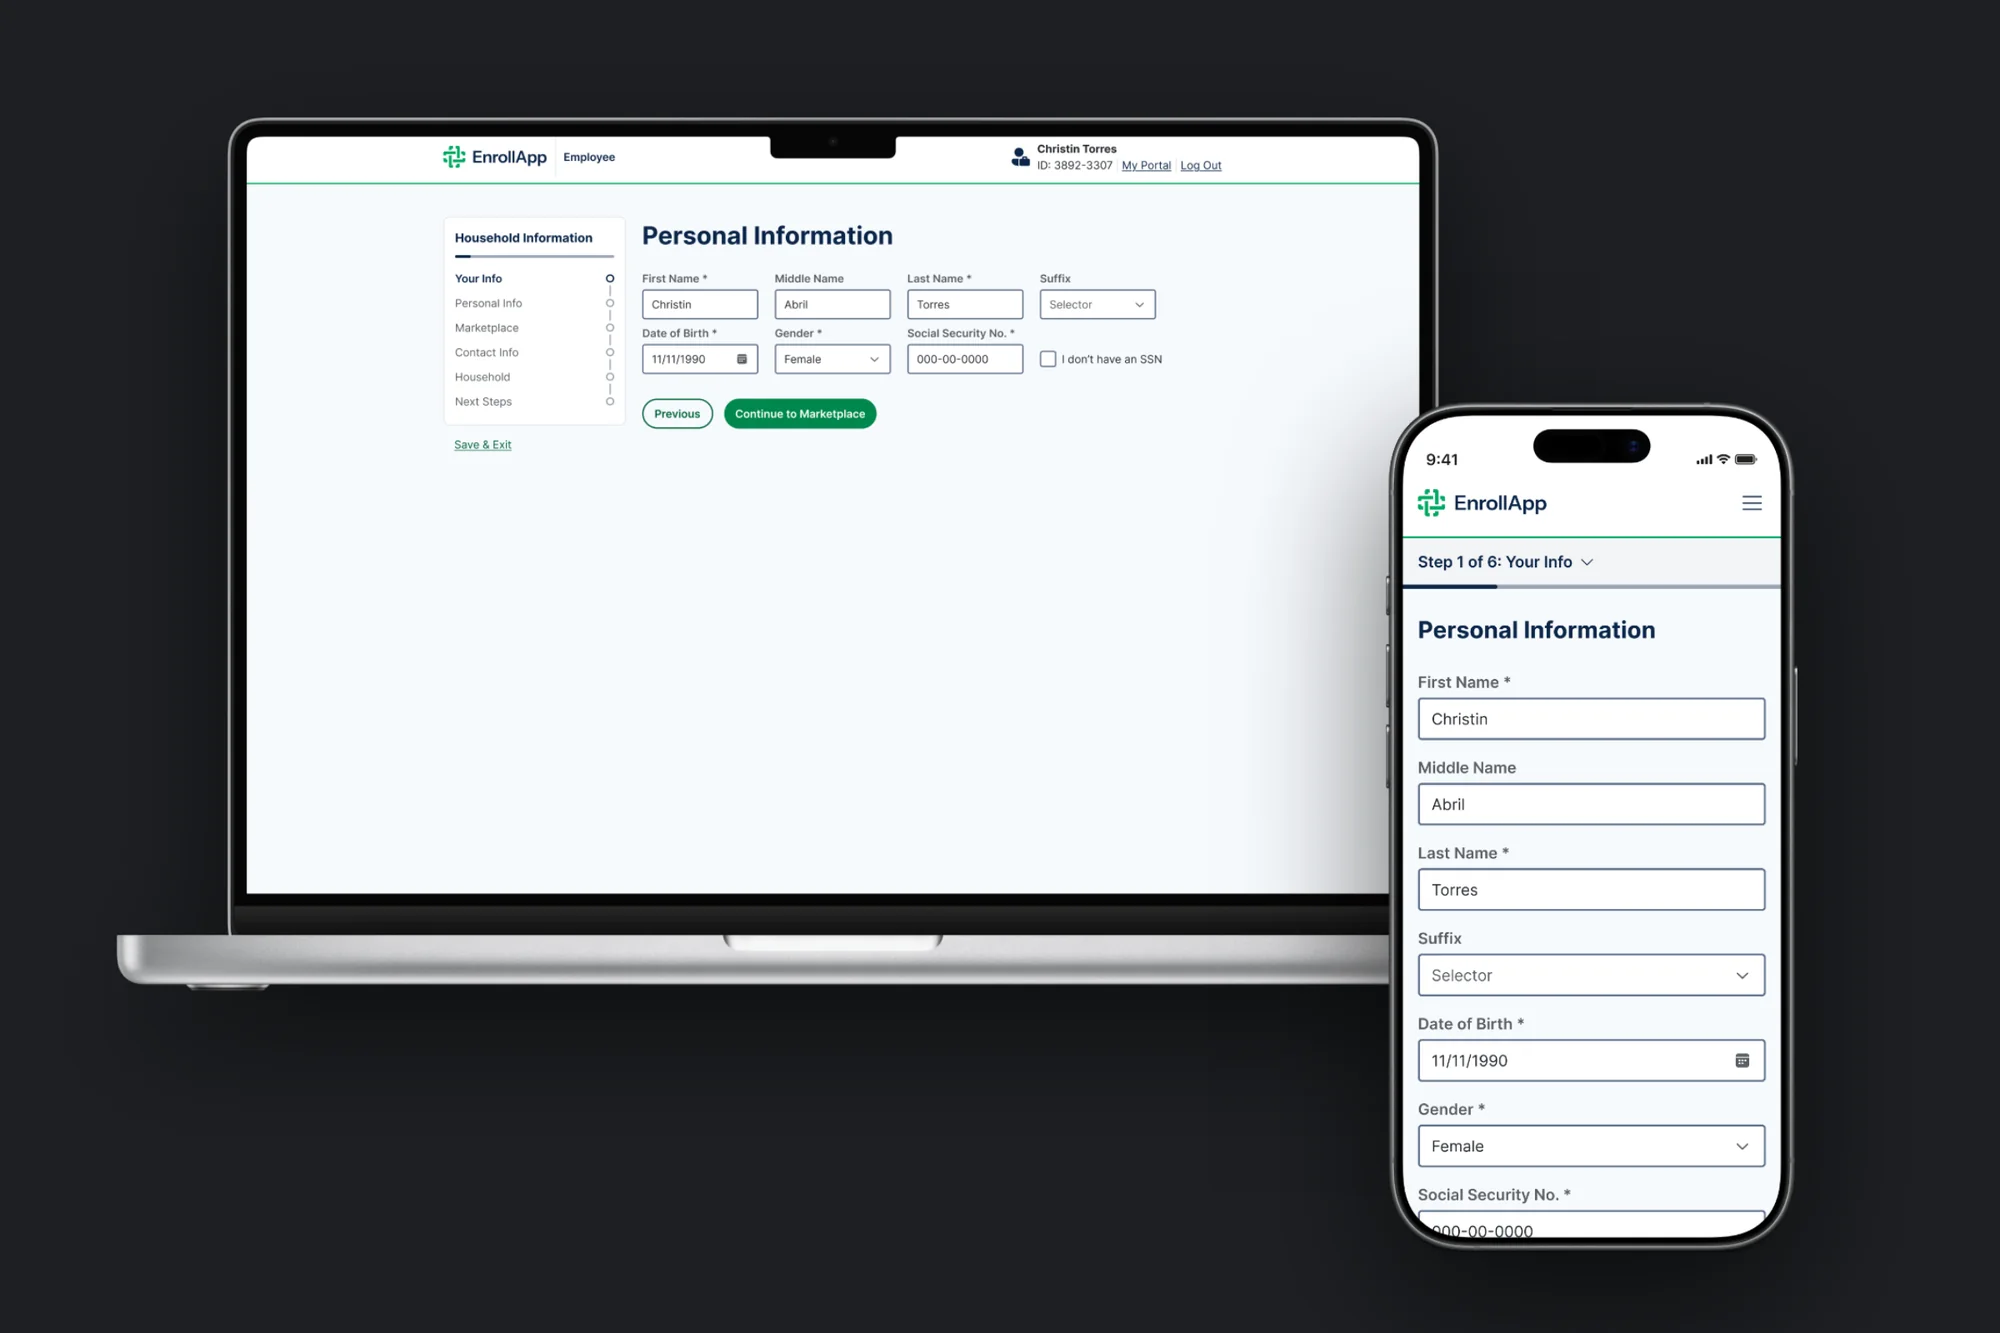
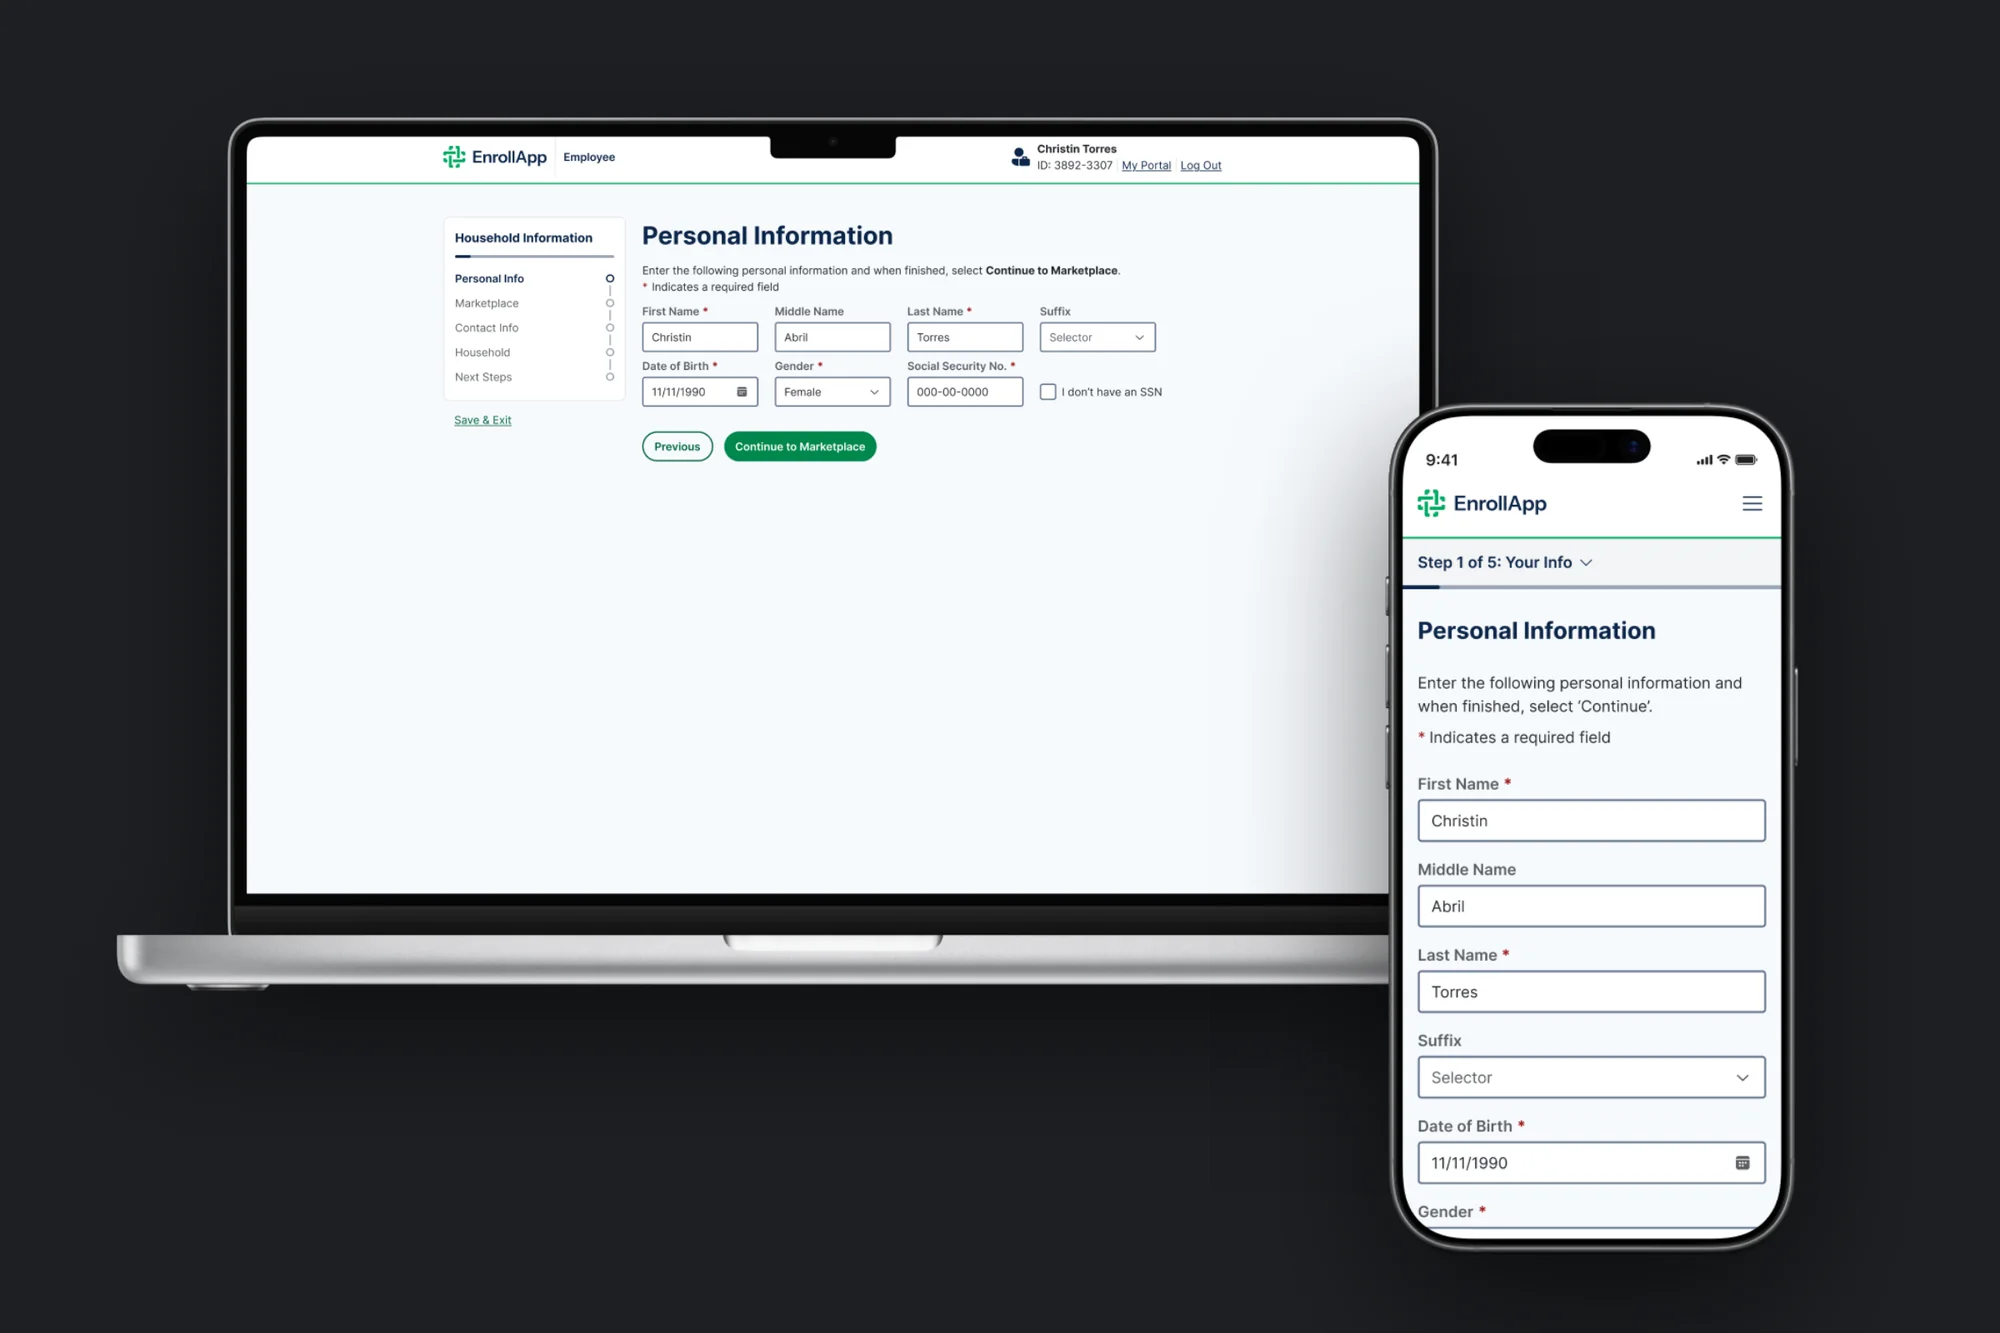
Enroll App mockups: updated MacBook and iPhone renders (five steps, new inputs)
Claude-Session: https://claude.ai/code/session_01QTyHBCCwtrKhoJ4MAgqzUa

diff --git a/docs/portfolio/enroll-app/index.html b/docs/portfolio/enroll-app/index.html
@@ -33,7 +33,7 @@
 <a class="skip-link" href="#main">Skip to content</a>
 <header class="site-header"><div class="wrap"><a class="brand" href="../../"><svg class="brand-mark" viewBox="0 0 165.37 144" aria-hidden="true" focusable="false"><path fill="currentColor" d="M165.37,46.66A46.64,46.64,0,0,0,118.66,0H64L0,144H165.37L140.44,87.93A46.58,46.58,0,0,0,165.37,46.66ZM140.71,128H95.53L82.66,99.05,69.79,128H24.66L74.43,16h44.23A30.65,30.65,0,0,1,133,73.8l-13.23,7,6.08,13.67Z"/></svg><span class="visually-hidden">Alex Rekas, home</span></a><button class="menu-button" type="button" aria-expanded="false" aria-controls="site-nav" hidden><span class="visually-hidden">Menu</span><span class="menu-icon" aria-hidden="true"><i></i><i></i></span></button><nav id="site-nav" aria-label="Main"><ul><li><a href="../../portfolio/" aria-current="true">Work</a></li><li><a href="../../about/">About</a></li><li><a href="../../resume/">Resume</a></li></ul></nav></div></header>
 <main id="main"><div class="wrap">
-<article class="case"><header class="case-intro"><h1>Enroll App</h1><div class="case-head"><p class="lede">Enroll App runs the health insurance marketplaces for Washington, DC, Maine and Massachusetts. It's where people apply for coverage, find out what help they qualify for, and pick a plan, and where small businesses set up coverage for their employees. The app was built on Bootstrap 3 with no real mobile support, and an accessibility audit found problems serious enough to stop some people with disabilities from enrolling at all. I was design lead on a $1M+ modernization that moved the platform to Bootstrap 4 and 5, and I led the redesign of the enrollment experience on top of it: mobile-first, WCAG 2.1 AA and Section 508 compliant, and built on a new Figma design system. The redesign is live in Maine's Individual Market, and DC's migration is planned for 2026–2027.</p><dl class="meta"><div><dt>Role</dt><dd>Design Lead</dd></div><div><dt>Company</dt><dd>IdeaCrew</dd></div><div><dt>Services</dt><dd><ul class="tags"><li>Product design</li><li>Accessibility</li><li>Research</li><li>Design system</li></ul></dd></div><div><dt>Years</dt><dd>2020–present</dd></div></dl></div></header><figure class="hero"><picture><source type="image/webp" srcset="../../assets/img/enroll-hero-mockup-640.webp 640w, ../../assets/img/enroll-hero-mockup-1200.webp 1200w, ../../assets/img/enroll-hero-mockup-1600.webp 1600w, ../../assets/img/enroll-hero-mockup-2000.webp 2000w, ../../assets/img/enroll-hero-mockup-2400.webp 2400w" sizes="(min-width: 1248px) 1200px, calc(100vw - 32px)"><img src="../../assets/img/enroll-hero-mockup-1200.jpg" alt="The redesigned Personal Information step for an employee on a laptop, with a six-step progress rail on the left, and the same step on a phone in front of it." width="2400" height="1350" fetchpriority="high" decoding="async"></picture></figure><section class="section" aria-labelledby="s-employer">
+<article class="case"><header class="case-intro"><h1>Enroll App</h1><div class="case-head"><p class="lede">Enroll App runs the health insurance marketplaces for Washington, DC, Maine and Massachusetts. It's where people apply for coverage, find out what help they qualify for, and pick a plan, and where small businesses set up coverage for their employees. The app was built on Bootstrap 3 with no real mobile support, and an accessibility audit found problems serious enough to stop some people with disabilities from enrolling at all. I was design lead on a $1M+ modernization that moved the platform to Bootstrap 4 and 5, and I led the redesign of the enrollment experience on top of it: mobile-first, WCAG 2.1 AA and Section 508 compliant, and built on a new Figma design system. The redesign is live in Maine's Individual Market, and DC's migration is planned for 2026–2027.</p><dl class="meta"><div><dt>Role</dt><dd>Design Lead</dd></div><div><dt>Company</dt><dd>IdeaCrew</dd></div><div><dt>Services</dt><dd><ul class="tags"><li>Product design</li><li>Accessibility</li><li>Research</li><li>Design system</li></ul></dd></div><div><dt>Years</dt><dd>2020–present</dd></div></dl></div></header><figure class="hero"><picture><source type="image/webp" srcset="../../assets/img/enroll-hero-mockup-640.webp 640w, ../../assets/img/enroll-hero-mockup-1200.webp 1200w, ../../assets/img/enroll-hero-mockup-1600.webp 1600w, ../../assets/img/enroll-hero-mockup-2000.webp 2000w, ../../assets/img/enroll-hero-mockup-2400.webp 2400w" sizes="(min-width: 1248px) 1200px, calc(100vw - 32px)"><img src="../../assets/img/enroll-hero-mockup-1200.jpg" alt="The redesigned Personal Information step for an employee on a laptop, with a five-step progress rail on the left, and the same step on a phone in front of it." width="2400" height="1350" fetchpriority="high" decoding="async"></picture></figure><section class="section" aria-labelledby="s-employer">
 <div class="section-text">
 <h2 id="s-employer">New employer sign-up</h2>
 <p>Small businesses used to set up coverage on one long page: their own details, the company's details, office locations and notice preferences, all ending in a red Confirm button. I split it into three short steps, Personal Information, Business Information and Communication, with a progress rail that always shows where you are and what's left.</p>

diff --git a/docs/portfolio/index.html b/docs/portfolio/index.html
@@ -45,7 +45,7 @@
 </div>
 <p class="visually-hidden" aria-live="polite" id="filter-status"></p>
 <ul class="work-grid">
-<li class="work-tile" data-tags="product"><div class="work-media"><picture><source type="image/webp" srcset="../assets/img/enroll-tile-mockup-640.webp 640w, ../assets/img/enroll-tile-mockup-1200.webp 1200w, ../assets/img/enroll-tile-mockup-1600.webp 1600w" sizes="(min-width: 1248px) 384px, (min-width: 700px) calc(50vw - 40px), calc(100vw - 48px)"><img src="../assets/img/enroll-tile-mockup-1200.jpg" alt="Enroll App&#x27;s Personal Information step in a desktop browser, with the same step on a phone in front of it." width="1600" height="1600" loading="lazy" decoding="async"></picture></div><div class="work-text"><h2><a href="../portfolio/enroll-app/">Enroll App</a></h2><p>Health coverage enrollment, rebuilt mobile-first</p></div></li>
+<li class="work-tile" data-tags="product"><div class="work-media"><picture><source type="image/webp" srcset="../assets/img/enroll-tile-mockup-640.webp 640w, ../assets/img/enroll-tile-mockup-1200.webp 1200w, ../assets/img/enroll-tile-mockup-1600.webp 1600w" sizes="(min-width: 1248px) 384px, (min-width: 700px) calc(50vw - 40px), calc(100vw - 48px)"><img src="../assets/img/enroll-tile-mockup-1200.jpg" alt="Enroll App&#x27;s Personal Information step on a laptop, with the same step on a phone in front of it." width="1600" height="1600" loading="lazy" decoding="async"></picture></div><div class="work-text"><h2><a href="../portfolio/enroll-app/">Enroll App</a></h2><p>Health coverage enrollment, rebuilt mobile-first</p></div></li>
 <li class="work-tile" data-tags="product brand"><div class="work-media"><picture><source type="image/webp" srcset="../assets/img/workradar-tile-interim-640.webp 640w, ../assets/img/workradar-tile-interim-1200.webp 1200w, ../assets/img/workradar-tile-interim-1600.webp 1600w" sizes="(min-width: 1248px) 384px, (min-width: 700px) calc(50vw - 40px), calc(100vw - 48px)"><img src="../assets/img/workradar-tile-interim-1200.jpg" alt="Two phones showing WorkRadar&#x27;s all-green OK To Enter and all-red STOP result screens." width="1600" height="2000" loading="lazy" decoding="async" class="fit-contain"></picture></div><div class="work-text"><h2><a href="../portfolio/workradar/">WorkRadar</a></h2><p>Daily check-ins for a safe return to the office</p></div></li>
 <li class="work-tile" data-tags="product"><div class="work-media"><div class="todo-box"><span class="todo-label">Image to add</span>Thumbnail</div></div><div class="work-text"><h2><a href="../portfolio/vitae-27/">Vitae 27</a></h2><p>One system for three state marketplace brands, built by directing an AI agent</p></div></li>
 <li class="work-tile" data-tags="product"><div class="work-media"><picture><source type="image/webp" srcset="../assets/img/regsearch-thumbnail-400.webp 400w" sizes="(min-width: 1248px) 384px, (min-width: 700px) calc(50vw - 40px), calc(100vw - 48px)"><img src="../assets/img/regsearch-thumbnail-400.jpg" alt="The RegSearch wordmark on deep purple." width="400" height="400" loading="lazy" decoding="async"></picture></div><div class="work-text"><h2><a href="../portfolio/regsearch/">RegSearch</a></h2><p>Federal procurement regulations, actually searchable</p></div></li>

diff --git a/build/pages/portfolio.html b/build/pages/portfolio.html
@@ -17,7 +17,7 @@
 </div>
 <p class="visually-hidden" aria-live="polite" id="filter-status"></p>
 <ul class="work-grid">
-<li class="work-tile" data-tags="product"><div class="work-media"><x-img src="enroll-tile-mockup.png" alt="Enroll App's Personal Information step in a desktop browser, with the same step on a phone in front of it." sizes="(min-width: 1248px) 384px, (min-width: 700px) calc(50vw - 40px), calc(100vw - 48px)"></div><div class="work-text"><h2><a href="/portfolio/enroll-app/">Enroll App</a></h2><p>Health coverage enrollment, rebuilt mobile-first</p></div></li>
+<li class="work-tile" data-tags="product"><div class="work-media"><x-img src="enroll-tile-mockup.png" alt="Enroll App's Personal Information step on a laptop, with the same step on a phone in front of it." sizes="(min-width: 1248px) 384px, (min-width: 700px) calc(50vw - 40px), calc(100vw - 48px)"></div><div class="work-text"><h2><a href="/portfolio/enroll-app/">Enroll App</a></h2><p>Health coverage enrollment, rebuilt mobile-first</p></div></li>
 <li class="work-tile" data-tags="product brand"><div class="work-media"><x-img src="workradar-tile-interim.png" alt="Two phones showing WorkRadar's all-green OK To Enter and all-red STOP result screens." sizes="(min-width: 1248px) 384px, (min-width: 700px) calc(50vw - 40px), calc(100vw - 48px)" fit="contain"></div><div class="work-text"><h2><a href="/portfolio/workradar/">WorkRadar</a></h2><p>Daily check-ins for a safe return to the office</p></div></li>
 <li class="work-tile" data-tags="product"><div class="work-media"><div class="todo-box"><span class="todo-label">Image to add</span>Thumbnail</div></div><div class="work-text"><h2><a href="/portfolio/vitae-27/">Vitae 27</a></h2><p>One system for three state marketplace brands, built by directing an AI agent</p></div></li>
 <li class="work-tile" data-tags="product"><div class="work-media"><x-img src="regsearch-thumbnail.png" alt="The RegSearch wordmark on deep purple." sizes="(min-width: 1248px) 384px, (min-width: 700px) calc(50vw - 40px), calc(100vw - 48px)"></div><div class="work-text"><h2><a href="/portfolio/regsearch/">RegSearch</a></h2><p>Federal procurement regulations, actually searchable</p></div></li>

diff --git a/docs/index.html b/docs/index.html
@@ -40,7 +40,7 @@
 <h2 id="featured-heading" class="visually-hidden">Featured work</h2>
 <ul class="feature-grid">
 <li class="feature">
-<picture><source type="image/webp" srcset="assets/img/enroll-home-mockup-640.webp 640w, assets/img/enroll-home-mockup-1200.webp 1200w, assets/img/enroll-home-mockup-1600.webp 1600w, assets/img/enroll-home-mockup-2000.webp 2000w, assets/img/enroll-home-mockup-2400.webp 2400w" sizes="(min-width: 1248px) 588px, (min-width: 900px) calc(50vw - 60px), calc(100vw - 32px)"><img src="assets/img/enroll-home-mockup-1200.jpg" alt="Enroll App&#x27;s Personal Information step in a desktop browser, with the same step on a phone in front of it." width="2400" height="1600" loading="lazy" decoding="async" class="feature-img"></picture>
+<picture><source type="image/webp" srcset="assets/img/enroll-home-mockup-640.webp 640w, assets/img/enroll-home-mockup-1200.webp 1200w, assets/img/enroll-home-mockup-1600.webp 1600w, assets/img/enroll-home-mockup-2000.webp 2000w, assets/img/enroll-home-mockup-2400.webp 2400w" sizes="(min-width: 1248px) 588px, (min-width: 900px) calc(50vw - 60px), calc(100vw - 32px)"><img src="assets/img/enroll-home-mockup-1200.jpg" alt="Enroll App&#x27;s Personal Information step on a laptop, with the same step on a phone in front of it." width="2400" height="1600" loading="lazy" decoding="async" class="feature-img"></picture>
 <div class="feature-text">
 <h3 class="feature-name"><a href="portfolio/enroll-app/">Enroll App</a></h3>
 <p class="feature-tagline">Health coverage enrollment, rebuilt mobile-first</p>

diff --git a/build/pages/home.html b/build/pages/home.html
@@ -13,7 +13,7 @@
 <h2 id="featured-heading" class="visually-hidden">Featured work</h2>
 <ul class="feature-grid">
 <li class="feature">
-<x-img src="enroll-home-mockup.png" alt="Enroll App's Personal Information step in a desktop browser, with the same step on a phone in front of it." sizes="(min-width: 1248px) 588px, (min-width: 900px) calc(50vw - 60px), calc(100vw - 32px)" class="feature-img">
+<x-img src="enroll-home-mockup.png" alt="Enroll App's Personal Information step on a laptop, with the same step on a phone in front of it." sizes="(min-width: 1248px) 588px, (min-width: 900px) calc(50vw - 60px), calc(100vw - 32px)" class="feature-img">
 <div class="feature-text">
 <h3 class="feature-name"><a href="/portfolio/enroll-app/">Enroll App</a></h3>
 <p class="feature-tagline">Health coverage enrollment, rebuilt mobile-first</p>

diff --git a/build/pages/portfolio/enroll-app.html b/build/pages/portfolio/enroll-app.html
@@ -10,7 +10,7 @@
   "services": ["Product design", "Accessibility", "Research", "Design system"],
   "years": "2020–present",
   "hero": "enroll-hero-mockup.png",
-  "hero_alt": "The redesigned Personal Information step for an employee on a laptop, with a six-step progress rail on the left, and the same step on a phone in front of it.",
+  "hero_alt": "The redesigned Personal Information step for an employee on a laptop, with a five-step progress rail on the left, and the same step on a phone in front of it.",
   "next": {"title": "WorkRadar", "url": "/portfolio/workradar/"}
 }-->
 <section class="section" aria-labelledby="s-employer">
